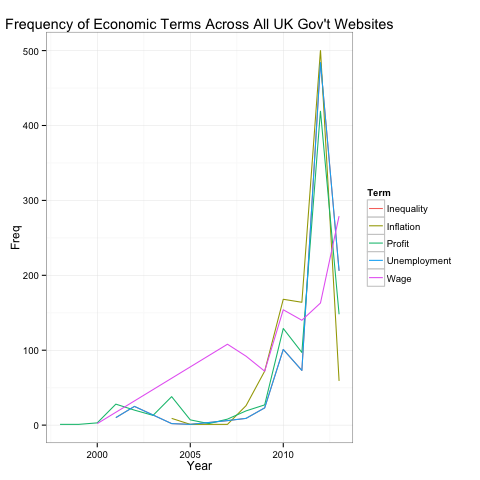
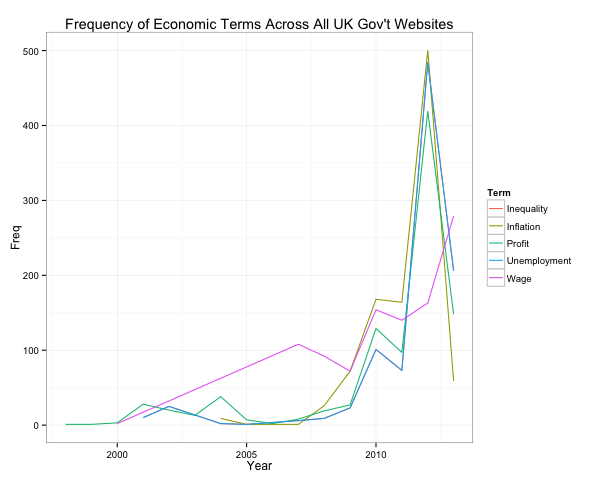
standardized graph sizes and added notes for unemployment data

diff --git a/notes/documentation.md b/notes/documentation.md
@@ -2,3 +2,7 @@
 - http://www.quandl.com/MWORTH/4_2
 - Gregory Clark, "What Were the British Earnings and Prices Then? (New Series)" MeasuringWorth, 2014 .
 URL: http://www.measuringworth.com/ukearncpi/
+
+### Unemployment data are from United Kingdom Office of National Statistics via Quandl
+- http://www.quandl.com/UKONS/LMS_MGSX_M-LFS-Unemployment-rate-UK-All-Aged-16-and-over-SA-Monthly
+- http://www.ons.gov.uk/ons/datasets-and-tables/downloads/csv.csv?dataset=lms
